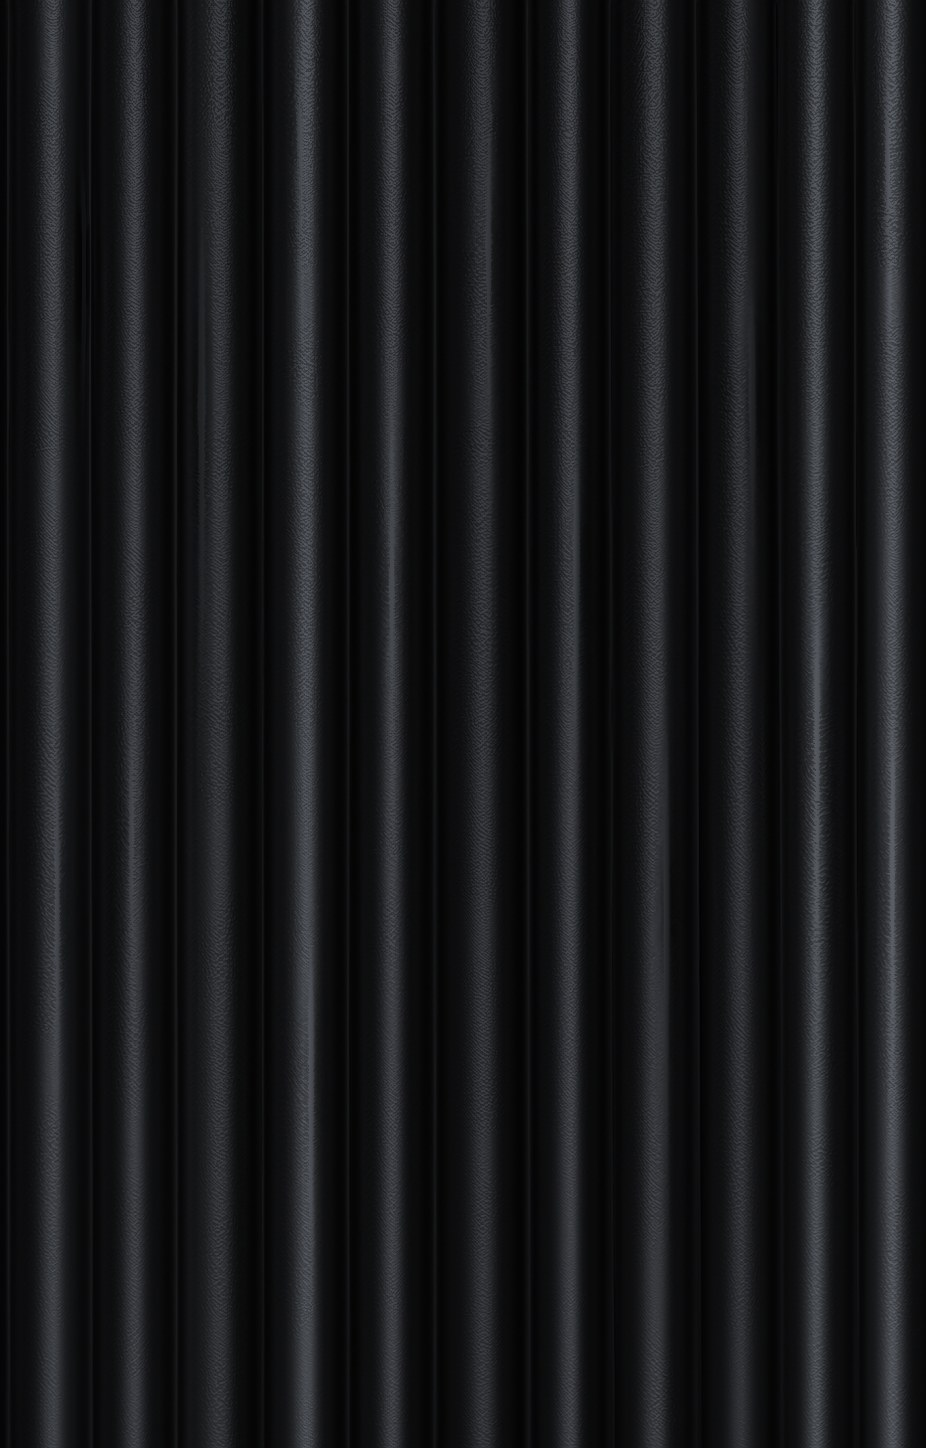
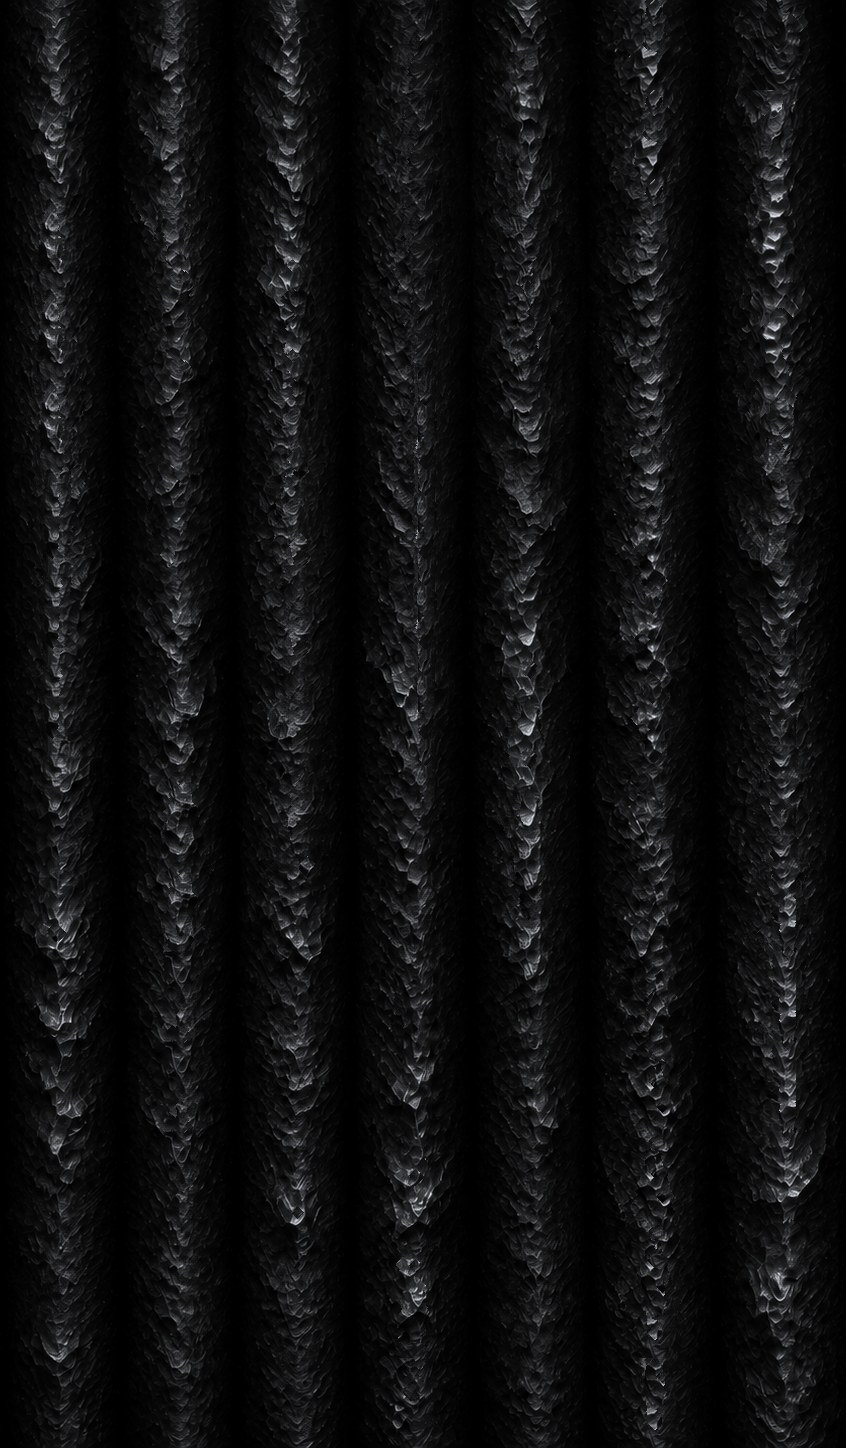
Pond light-folds floor: new stone texture base, crisper colourful lights on crest tops (v149)
Claude-Session: https://claude.ai/code/session_01Lhs25rWK3XthxTgTdv8F4C

diff --git a/hand-art/index.html b/hand-art/index.html
@@ -213,7 +213,7 @@ body.mview #grab,body.mview #cap,body.mview .dock{display:none}
     <div class="row"><button class="btn" id="pinBtn">비밀번호 바꾸기</button><button class="btn" id="liteBtn">가벼운 모드 켜기</button></div>
     <div class="row"><button class="btn" id="bakOut">마음 백업 내보내기</button><button class="btn" id="bakIn">백업 가져오기</button></div>
     <p class="hint" id="hintTxt"><b>손가락</b> 흐름 그리기 · <b>검지만 펴기</b> 방향 분사<br><b>엄지+검지 집기</b> 소용돌이 · <b>주먹</b> 굳히기<br><b>손가락 톡 굽히기</b> 색이 터짐</p>
-    <p class="hint" id="ver">버전 148</p>
+    <p class="hint" id="ver">버전 149</p>
   </div>
 </div>
 <!-- 마음 남기기: write over the flowing art, then keep it (locked with a 4-digit PIN, on this phone only) or let it flow away -->
@@ -880,7 +880,7 @@ void main(){
  if(rings>1.5){                                                      /* the black corrugated floor (photo): straight folds, coloured lights running along their tops */
   water=1.;D=.2;Db=.2;
   vec2 bu=bedUV(vUv+off);vec2 iuv=(bu-.5)*iFit*1.45+.5;iuv.y=1.-iuv.y;   /* tiles seamlessly sideways, so the folds carry on forever when tilted */
-  b=vec4(iOk>.5?texture(uI,iuv).rgb*1.3:vec3(.08),.3);
+  b=vec4(iOk>.5?texture(uI,iuv).rgb*.92:vec3(.08),.3);
   vec3 cs=iOk>.5?texture(uC,vec2(iuv.x,.5)).rgb:vec3(0.);            /* r: the crest line, g: which fold, b: soft glow around the crest */
   float sid=floor(cs.g*16.)+floor(iuv.x)*11.;
   vec3 lc=vec3(0.);
@@ -894,7 +894,7 @@ void main(){
    vec3 hue=clamp(abs(fract(hc+vec3(0.,2./3.,1./3.))*6.-3.)-1.,0.,1.);
    vec3 col=mix(hue,vec3(1.),hc>.9?.8:.32);                         /* violet, amber, teal, rose, blue … and the odd white */
    lc+=col*e; }
-  gold=lc*(1.15*pow(cs.r,1.15)+.4*cs.b);
+  gold=lc*(1.5*pow(cs.r,1.3)+.22*cs.b);
  }
  vec3 under=b.rgb*vec3(.84,.92,.86);
  if(rings>.5)under=b.rgb+gold;
@@ -1080,7 +1080,7 @@ let vel,dye,det,detSeed=0,div,curlF,pres,wat,wgrad,aspect=1,dpr=1;
 const WATER_RES=200;
 function res(r){let a=canvas.width/canvas.height;if(a<1)a=1/a;const mn=Math.round(r),mx=Math.round(r*a);
   return canvas.width>canvas.height?[mx,mn]:[mn,mx];}
-const VER_TXT='버전 148';
+const VER_TXT='버전 149';
 /* ===== 가상 회전 잠금: OS가 화면을 돌려도(폴드 내부 화면처럼 잠금 요청을 무시하는 경우) 내용은 기기 기준으로 고정 ===== */
 const appEl=document.getElementById('app');let viewAng=-1,viewIW=0,viewIH=0,lockAng=null,lockKey='',lockP=true,devG=null,rawAng=0;
 function devAngle(){let a=0;try{if(screen.orientation&&typeof screen.orientation.angle==='number')a=screen.orientation.angle;else if(typeof window.orientation==='number')a=window.orientation;}catch(e){}
@@ -1548,7 +1548,7 @@ function pondFrame(dt){
   const u=use('pdRender',[0,0]);gl.uniform1i(u.uH,pdH.r.bind(0));gl.uniform1i(u.uB,pdBed.bind(1));gl.uniform2f(u.px,pdH.r.tx,pdH.r.ty);
   gl.uniform2f(u.tilt,Math.max(-.6,Math.min(.6,viewTilt[0])),Math.max(-.6,Math.min(.6,viewTilt[1])));
   gl.uniform1f(u.aspect,aspect);gl.uniform1f(u.nsc,PD.NORMAL);gl.uniform1f(u.refr,PD.REFRACT);gl.uniform1f(u.refl,PD.REFLECT);gl.uniform1f(u.skyK,PD.SKY_BEND);gl.uniform1f(u.seed,pdSeed);gl.uniform1f(u.ext,PD_EXT);gl.uniform1f(u.sun,pondSun);gl.uniform1f(u.time,pdT);
-  {const ft=floorTex[pondFloor]||{},ok=pondFloor&&ft.b&&ft.c,ia=pondFloor===2?926/1448:1086/1448;gl.uniform1f(u.rings,pondFloor);gl.uniform1f(u.iOk,ok?1:0);
+  {const ft=floorTex[pondFloor]||{},ok=pondFloor&&ft.b&&ft.c,ia=pondFloor===2?846/1448:1086/1448;gl.uniform1f(u.rings,pondFloor);gl.uniform1f(u.iOk,ok?1:0);
    gl.uniform2f(u.iFit,aspect<ia?aspect/ia:1,aspect<ia?1:ia/aspect);   // the photo covers the whole bed (cropped, never stretched)
    gl.activeTexture(gl.TEXTURE2);gl.bindTexture(gl.TEXTURE_2D,ft.b||null);gl.uniform1i(u.uI,2);gl.activeTexture(gl.TEXTURE3);gl.bindTexture(gl.TEXTURE_2D,ft.c||null);gl.uniform1i(u.uC,3);}
   {const K=.8,r=1-Math.exp(-dt*3);for(let k=0;k<2;k++){const tgt=gyroOn?Math.max(-PD_EXT,Math.min(PD_EXT,viewTilt[k]*K)):0;pdPan[k]+=(tgt-pdPan[k])*r;}   // tilt = look around the puddle
@@ -1561,7 +1561,7 @@ function loadFloor(f){if(!f||floorLoading[f])return;floorLoading[f]=true;   // a
     gl.texParameteri(gl.TEXTURE_2D,gl.TEXTURE_MIN_FILTER,mip?gl.LINEAR_MIPMAP_LINEAR:gl.LINEAR);gl.texParameteri(gl.TEXTURE_2D,gl.TEXTURE_MAG_FILTER,gl.LINEAR);
     gl.texParameteri(gl.TEXTURE_2D,gl.TEXTURE_WRAP_S,st?gl.REPEAT:gl.MIRRORED_REPEAT);gl.texParameteri(gl.TEXTURE_2D,gl.TEXTURE_WRAP_T,gl.MIRRORED_REPEAT);ft[key]=t;};
     im.onerror=()=>{floorLoading[f]=false;};im.src=src;};
-  if(st){mk('floors/stripes_base.jpg?v=1','b',true);mk('floors/stripes_crest.png?v=1','c',false);}
+  if(st){mk('floors/stripes_base.jpg?v=2','b',true);mk('floors/stripes_crest.png?v=2','c',false);}
   else{mk('floors/rings_base.jpg?v=2','b',true);mk('floors/rings_crest.jpg?v=2','c',true);}}
 function setPondFloor(v){pondFloor=(v>=0&&v<=2)?v:0;if(pondFloor)loadFloor(pondFloor);document.querySelectorAll('#pondFloorRow .chip').forEach(b=>b.setAttribute('aria-pressed',+b.dataset.pf===pondFloor));try{localStorage.setItem('hf-pondfloor',String(pondFloor));}catch(e){}}
 function setPondSun(v){pondSun=v?1:0;document.querySelectorAll('#pondSunRow .chip').forEach(b=>b.setAttribute('aria-pressed',+b.dataset.ps===pondSun));try{localStorage.setItem('hf-pondsun',pondSun?'1':'0');}catch(e){}}

diff --git a/hand-art/sw.js b/hand-art/sw.js
@@ -1,7 +1,7 @@
 /* Hand Flow Art — offline cache
    · 화면 파일(index.html 등): 온라인이면 항상 새로 받아옴(network-first), 오프라인이면 저장본 사용
    · AI 모델·런타임(mediapipe/): 한 번 받으면 그대로 재사용(버전 올려도 다시 받지 않음) */
-const CORE = 'hand-flow-core-v150';
+const CORE = 'hand-flow-core-v151';
 const MODEL = 'hand-flow-model-v1';
 const CORE_ASSETS = ['./', './index.html', './manifest.json', './icons/icon-192.png', './icons/icon-512.png', './icons/apple-touch-icon.png', './thumbs/paint.jpg', './thumbs/water.jpg', './thumbs/pond.jpg', './floors/sauna.jpg', './floors/rings_base.jpg', './floors/rings_crest.jpg', './floors/stripes_base.jpg', './floors/stripes_crest.png', './thumbs/light.jpg', './thumbs/cloud.jpg', './thumbs/ink.jpg', './thumbs/halo.jpg'];
 // files no longer used: removed from the phone's saved copy as well

diff --git a/hand-art/README.md b/hand-art/README.md
@@ -76,6 +76,7 @@
 - 버전 146 검은 물결 바닥을 새 그림(더 촘촘한 고리)으로 교체, 금빛이 같은 자리에서만 돌지 않도록 천천히 모양이 바뀌며 스스로 도는 마스크로 빛이 여기저기서 나타났다 사라짐
 - 버전 147 검은 물결: 고리마다 빛의 방향·속도·개수·등장 시점을 따로 랜덤하게(같은 방향으로 함께 돌지 않음), 그림 가장자리 너머에서 미러로 뒤집히지 않고 같은 간격의 동심원 고리가 바깥으로 계속 이어짐
 - 버전 148 퍼들 모드 바닥 옵션 "빛 주름" 추가: 첨부 그림의 직선 주름 바닥(빛 제거, 옆으로 끊김 없이 반복), 주름마다 꼭대기를 따라 보라·주황·청록·분홍·파랑·흰 빛이 저마다 다른 방향·속도·길이로 랜덤하게 흐름
+- 버전 149 빛 주름 바탕을 새 그림(거친 돌결의 세로 주름)으로 교체(그림 속 금빛은 지우고 옆으로 끊김 없이 반복), 다채로운 빛을 더 가늘고 또렷하게 주름 꼭대기 선 위로만 흐르게
 - 버전 145 검은 물결 바닥: 그림을 약 1.45배 축소(동그라미가 작게, 화면에 사진 전체가 들어옴 · 기울여 사진 밖으로 나가면 거울처럼 이어지고 접힌 자리는 그늘로 부드럽게), 금빛을 더 많은 고리에서 더 길게(긴 호), 흐르는 속도 약 3배 + 속도가 계속 바뀌어 매번 다르게
 - 버전 144 Puddle 바닥 선택 추가(자갈 / 검은 물결): 보내주신 검은 물결 조각 사진을 바닥으로(사진 속 노란 빛은 지우고 floors/rings_base.jpg), 물결 마루만 따로 뽑은 지도(floors/rings_crest.jpg)를 따라 금빛 빛줄기가 저마다 다른 속도·방향으로 고리를 돌며 나타났다 사라짐. 그 위에 물이 있고 비가 내림(비 세기·흐린 밤/햇살 낮과 함께 사용), 기울이면 둘러보기
 - 버전 143 여러 휴대폰 대비:
